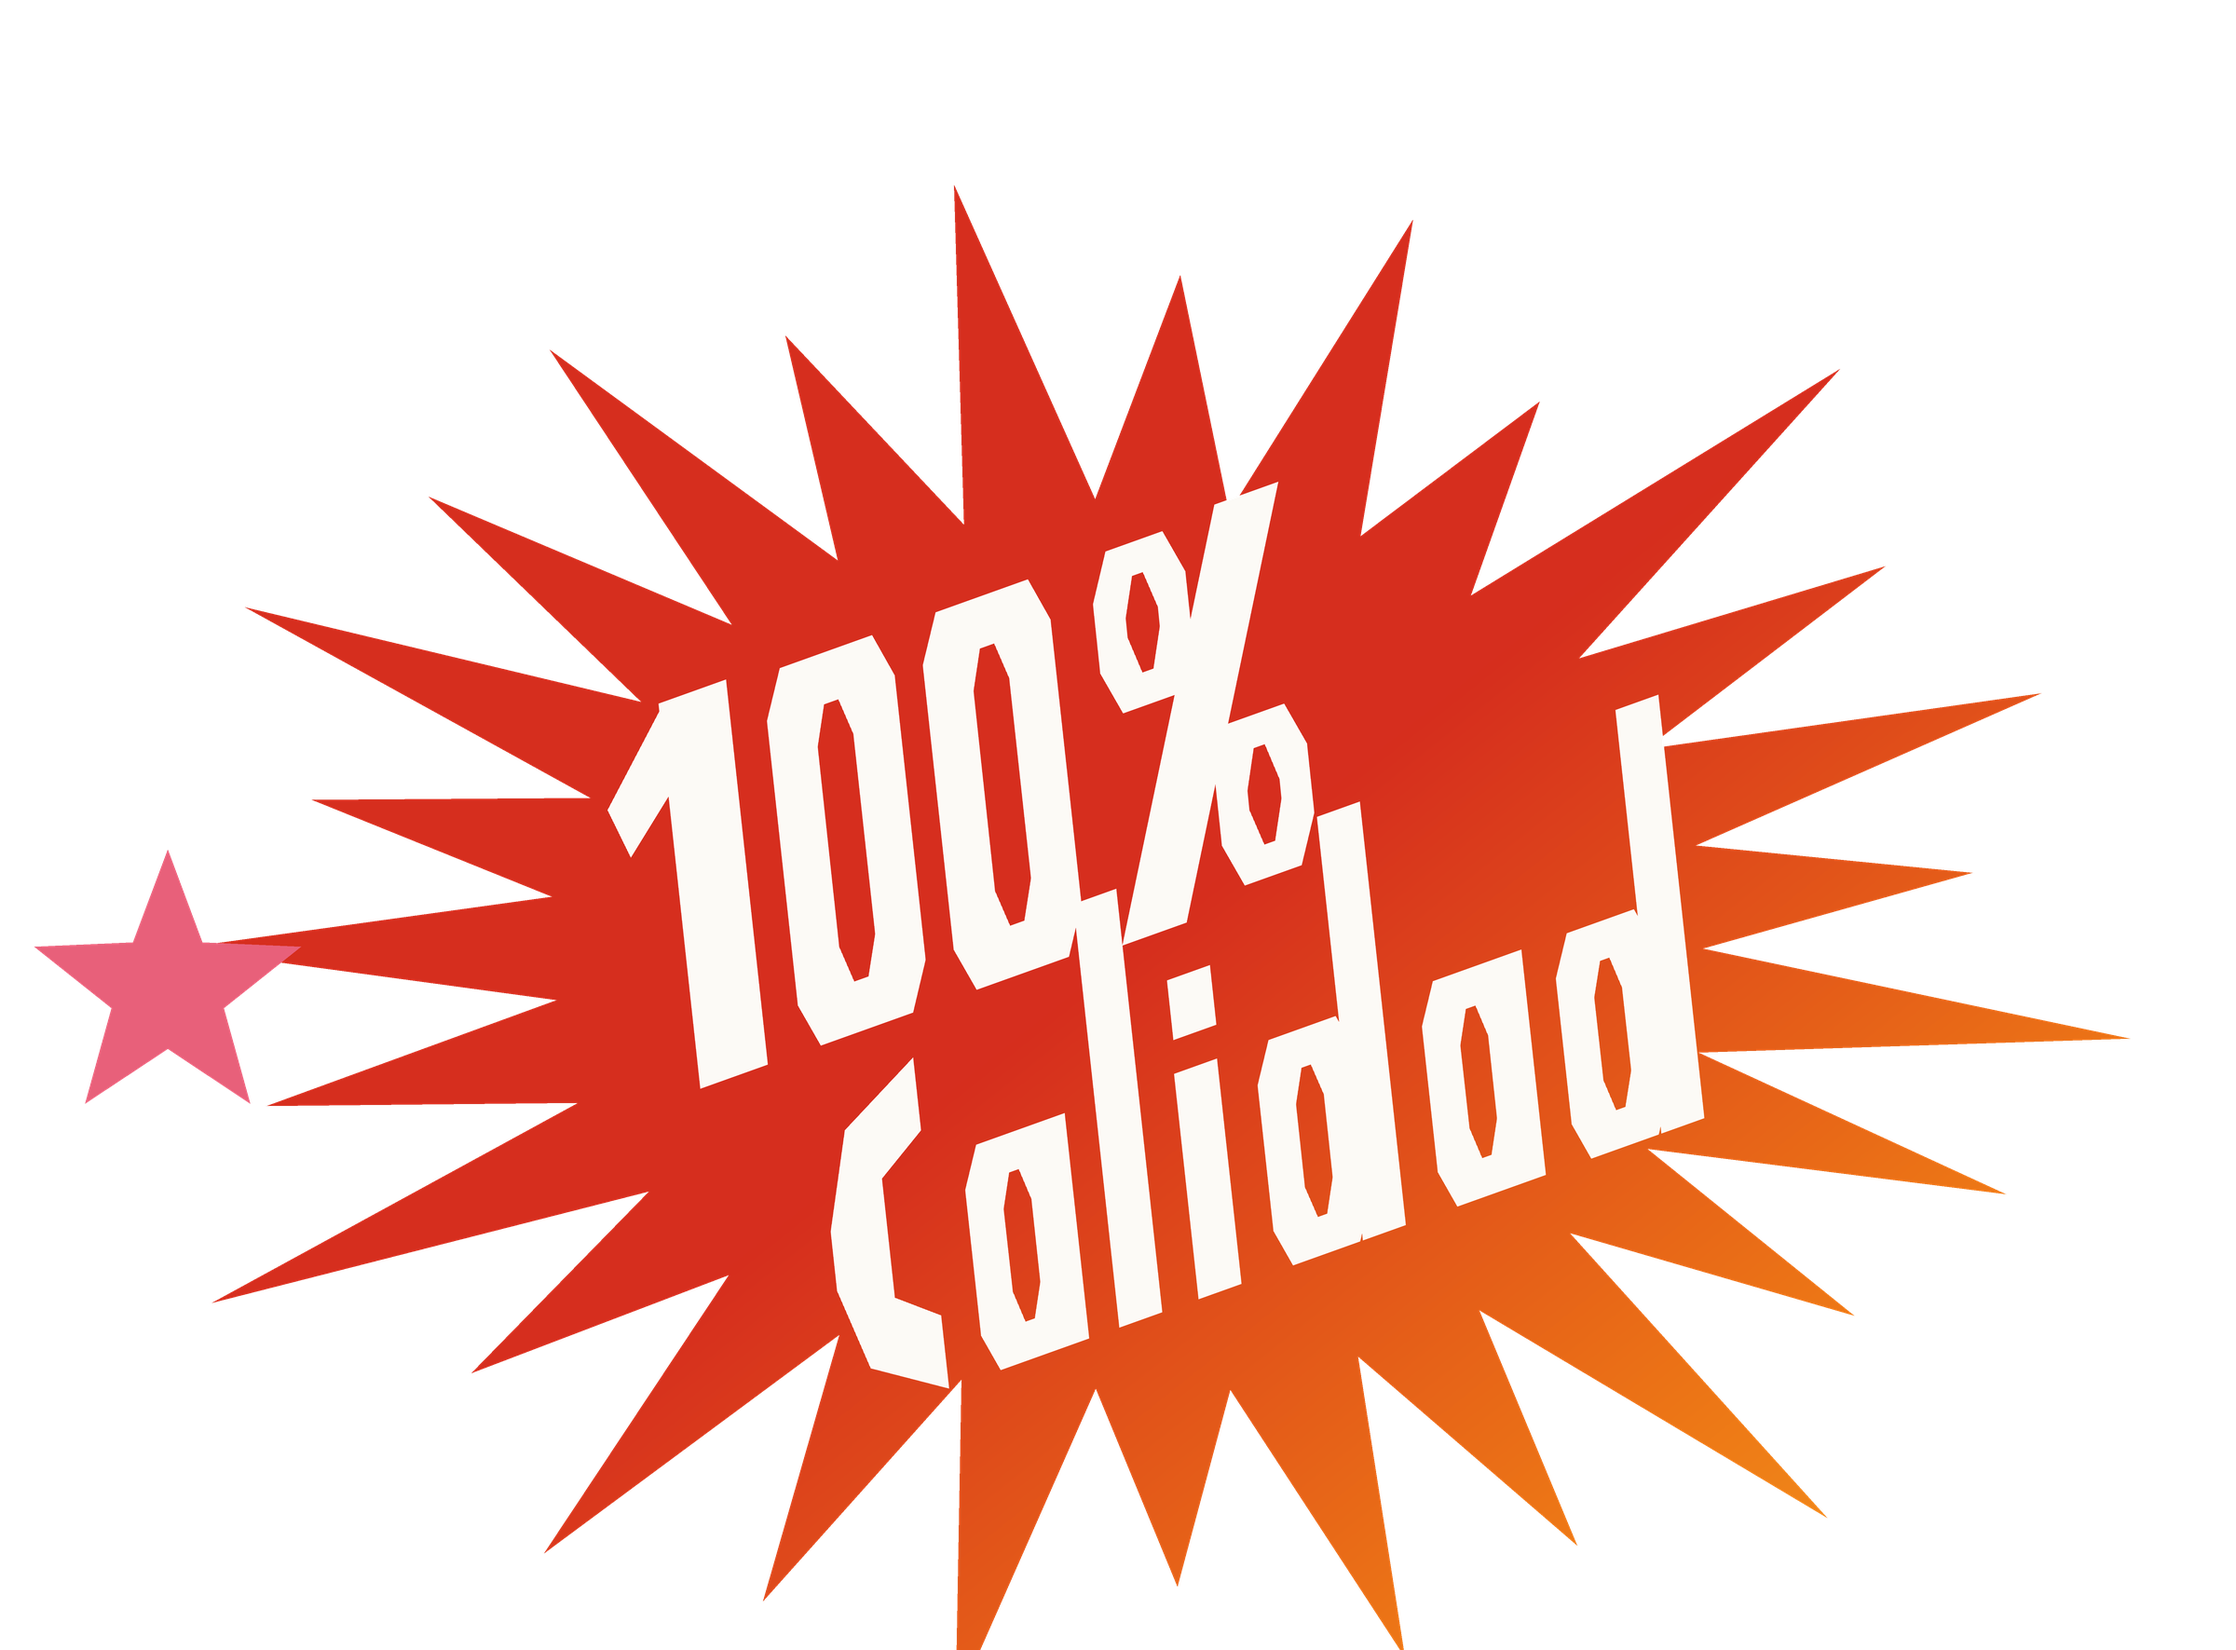
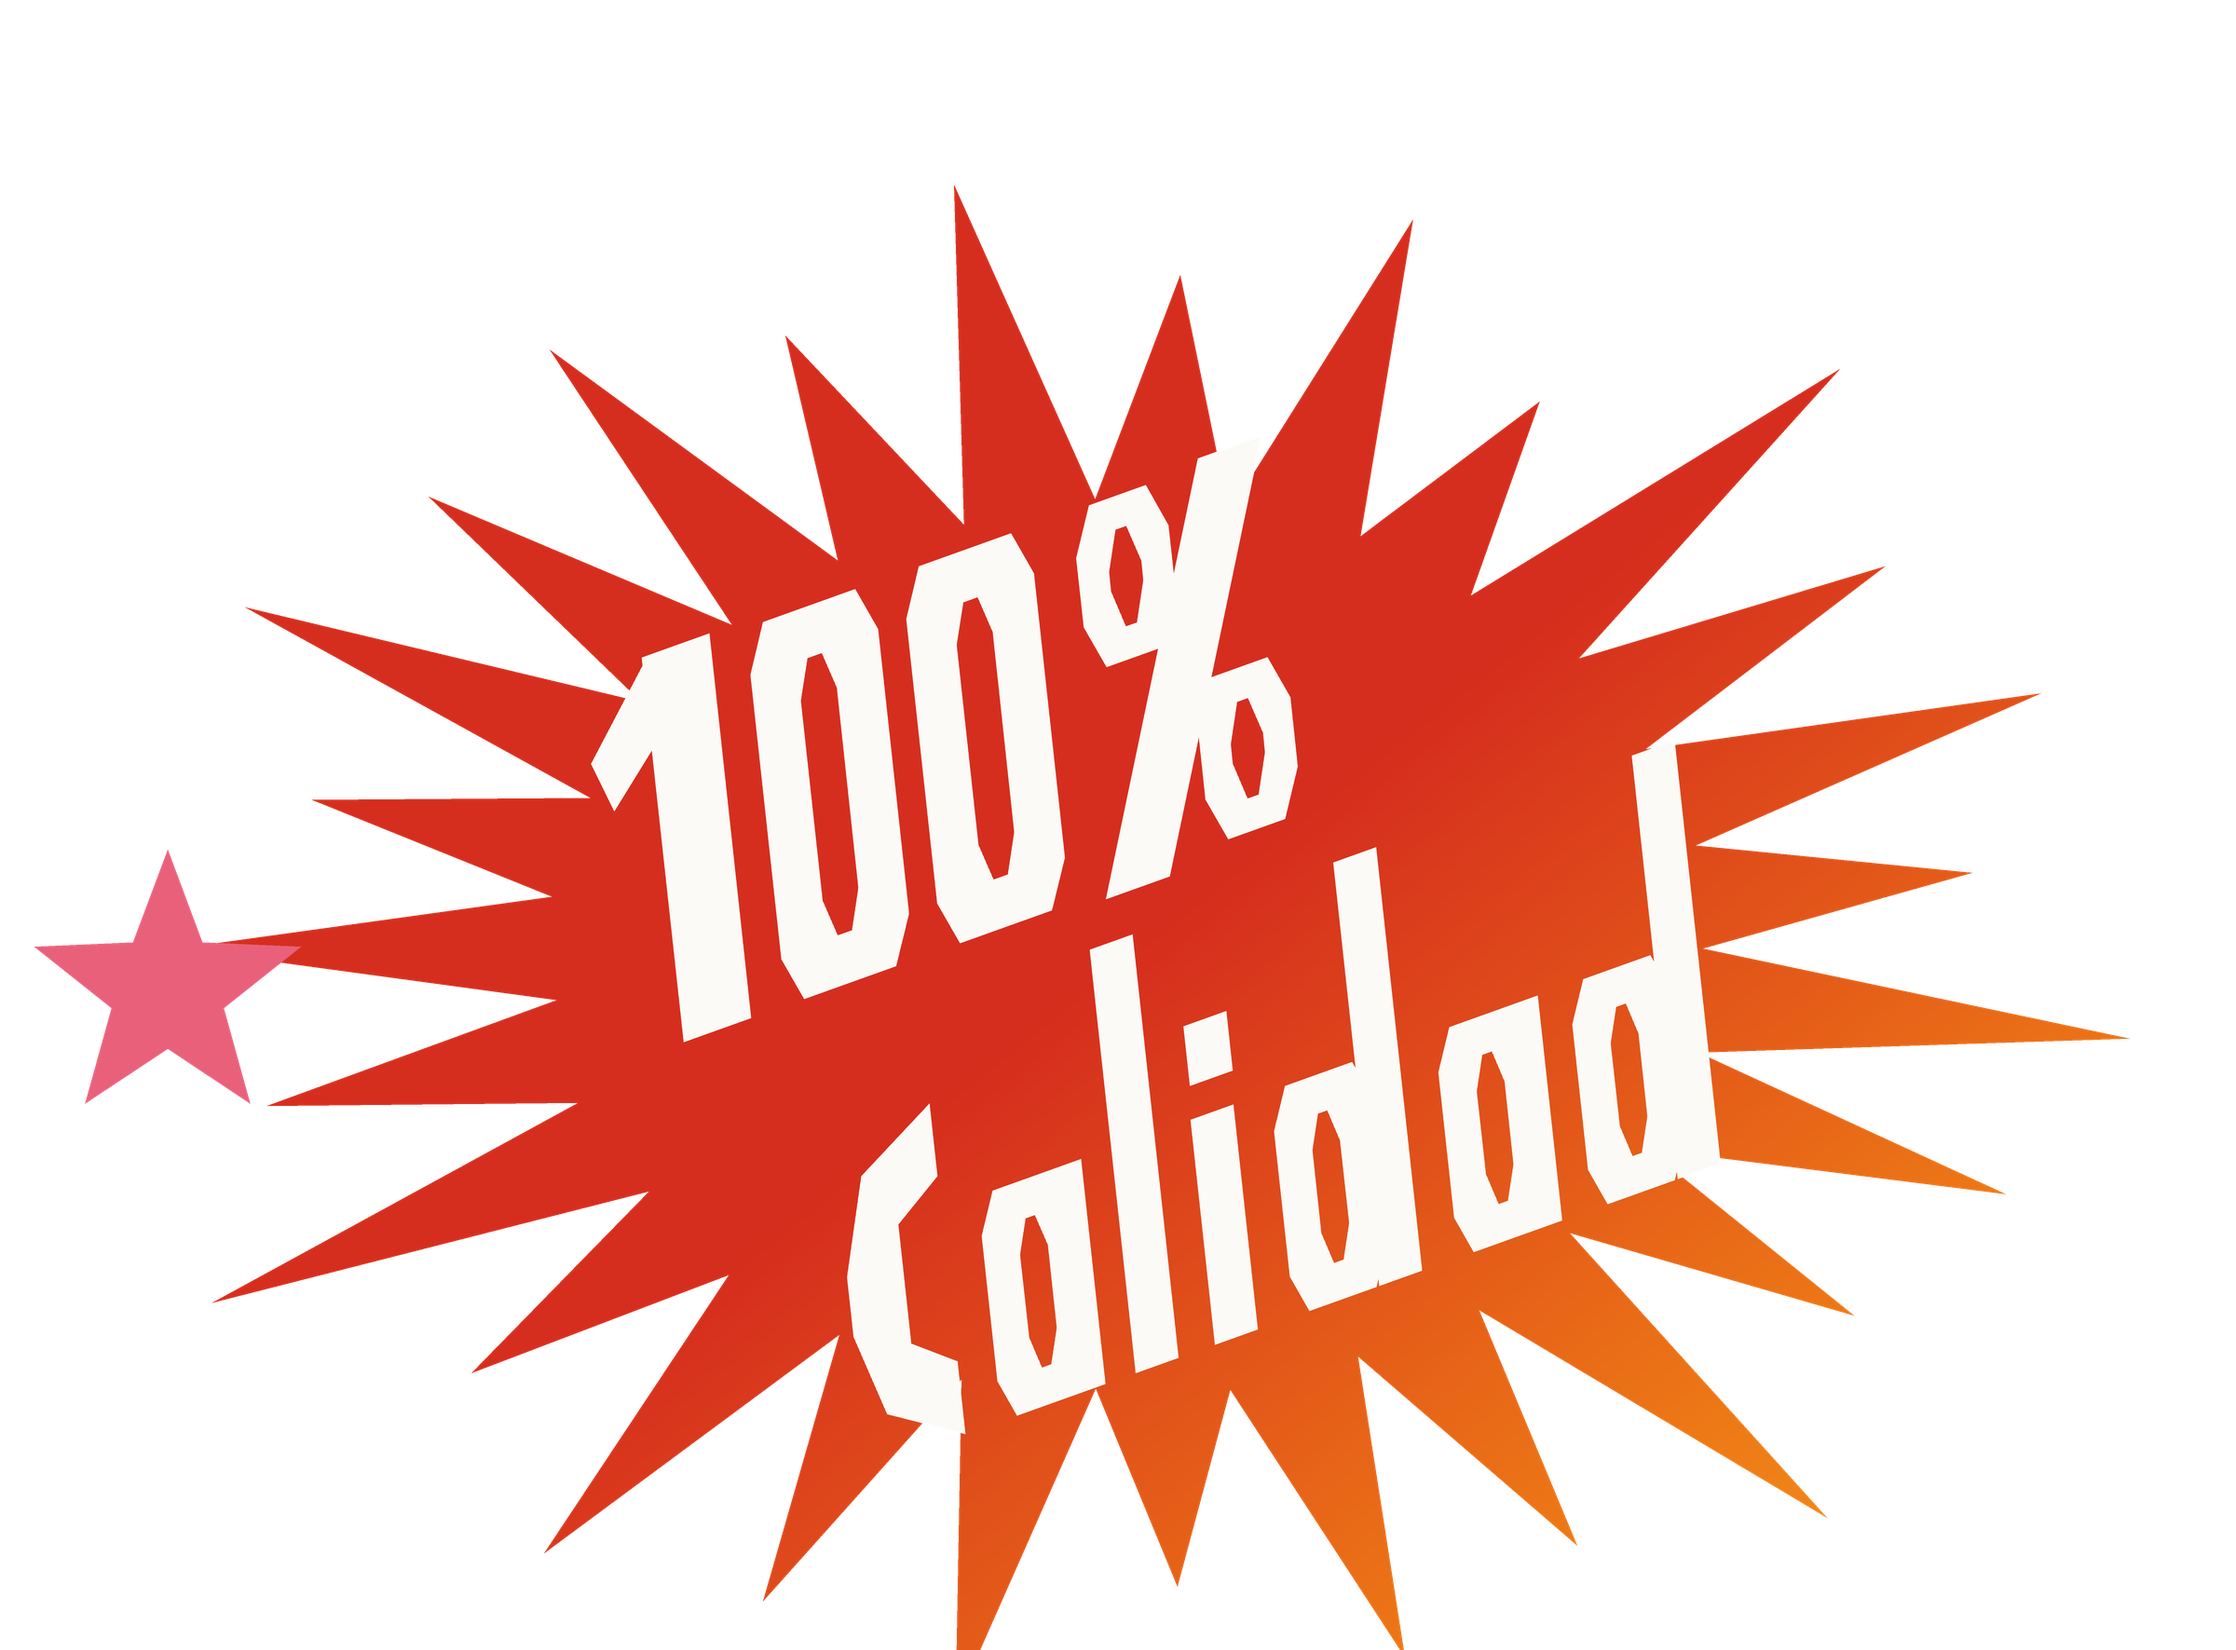
rev 47 W4: the two words no longer collide, and TYPE_SHIFT stops being a transcription
HIS REPORT, MEASURED AND NOW FIXED.  "The bottom word does not collide with the
top one either."  Rev 46 confirmed it and did not fix it: "100%" and "Calidad"
shared 1110 pixels, their boxes overlapping by 0.0337 of the canvas height --
14.5% of the "100%" cap height.  Reproduced here to four decimals before
touching anything:

    100%     x 0.3033-0.6381  y 0.3390-0.5716   \\  1110 shared px
    Calidad  x 0.3304-0.7660  y 0.5381-0.7890   /   overlap 0.0337 (14.5%)

AFTER:  0 shared pixels, a clear gap of 0.0258 of canvas height = 11.1% of the
"100%" cap height.  Guard still exact at (+0.0000, -0.0001).

THE MAGNITUDE IS NOT A MEASUREMENT AND THE SOURCE SAYS SO.  Rule 6: an ordinal
fact licenses a SIGN, never a SHAPE.  ref_playa_34.png supports only that the
words are SEPARATE -- visible at 16x, and nothing more.  A de-rotated row
profile of the type inside the burst is one broad smear with no trough between
the words: at 4-6 px per word the bright/low-saturation rule that finds the type
also finds the cream, which is the same estimator failure LEDGER_rev46 sec.1
retracted a published number for.  LINE_GAP is therefore the smallest separation
that clears the collision with a visible gap, declared a placeholder, expressed
as a fraction of the cap height rather than of the canvas so it survives a type
size change.  PHOTOS_WANTED #1 settles it.

THE TRAP THE BRIEF NAMES IS REMOVED RATHER THAN STEPPED AROUND.  sec.4 warns
[…]

Changed region(s): [[0.25, 0.2795, 0.7812, 0.8696]]

diff --git a/cal_gen.py b/cal_gen.py
@@ -91,9 +91,51 @@ ANG = math.radians(-19.7)        # measured type / bunting angle
 # layout was right.  Rotating about the point the block is centred ON makes the
 # centring EXACT and independent of ANG: a rotation fixes its own centre.
 BURST_CX, BURST_CY = 0.505, 0.575
-TYPE_PRE_CENTROID = (0.3735, 0.6309)     # watched print, rev 46, pre-rotation
-TYPE_SHIFT = (BURST_CX - TYPE_PRE_CENTROID[0],
-              BURST_CY - TYPE_PRE_CENTROID[1])      # (+0.1315, -0.0559)
+
+# ---------------------------------------------------------------- rev 47, W4
+# THE TWO WORDS COLLIDED.  "100%" and "Calidad" shared 1110 pixels and their
+# boxes overlapped by 0.0337 of the canvas height -- 14.5% of the "100%" cap
+# height.  The owner reported it; rev 46 measured it and did not fix it.
+#
+# LINE_GAP OPENS THAT GAP, AND ITS MAGNITUDE IS NOT A MEASUREMENT.  Say so
+# plainly (rule 6: an ordinal fact licenses a SIGN, never a SHAPE).  What
+# ref_playa_34.png supports is that the two words are SEPARATE -- visible at
+# 16x, and that is all.  A de-rotated row profile of the type inside the burst
+# is a single broad smear with no trough between the words: at 4-6 px per word
+# the bright/low-saturation rule that finds the type also finds the cream, the
+# same failure LEDGER_rev46 sec.1 retracted a number for.  So this constant is
+# the SMALLEST separation that clears the collision with a visible gap, and it
+# is a placeholder for a photographed value.  PHOTOS_WANTED #1 settles it.
+#
+# It is expressed as a fraction of the "100%" cap height rather than of the
+# canvas, so it survives a change of type size (SPEC 10.25 / rule 2).
+CAP_100 = 0.228                  # "100%" size, as passed to glyph_100 below
+LINE_GAP = 0.26                  # of CAP_100.  NOT MEASURED -- see above.
+LINE_SEP_BASE = 0.250            # rev 46's anchor separation, 0.645 - 0.395
+LINE_SEP = LINE_SEP_BASE + LINE_GAP * CAP_100
+
+# TYPE_SHIFT IS NOW DERIVED AT RUN TIME, NOT TRANSCRIBED.
+# rev 46 froze TYPE_PRE_CENTROID = (0.3735, 0.6309) as a watched-print figure.
+# That is correct only for rev 46's exact layout: change the gap -- which W4
+# requires -- and the frozen centroid silently becomes wrong, the block slides
+# off the burst, and the W1 guard fires.  The brief names this as the trap.
+# Measuring the centroid of the actual laid-out type removes the trap instead
+# of stepping around it, and it re-derives itself after ANY future glyph, size
+# or spacing change.  SPEC 10.25: a constant tuned against another constant
+# must be EXPRESSED in terms of it.
+def _type_centroid(shift=(0.0, 0.0)):
+    """Centroid of the two words as laid out, pre-rotation, in canvas units."""
+    t = TypeMask(w, h)
+    _place(t, shift)
+    m = np.array(t.m) > 127
+    ys, xs = np.nonzero(m)
+    return (xs.mean() / w, ys.mean() / h)
+
+
+def _place(t, shift):
+    sx, sy = shift
+    glyph_100(t, w * (0.150 + sx), h * (0.395 + sy), h * CAP_100)
+    glyph_calidad(t, w * (0.180 + sx), h * (0.395 + LINE_SEP + sy), h * 0.196)
 
 
 def rot(px, py, cx, cy, a):
@@ -313,9 +355,11 @@ def main():
     # type on its own mask so the counters punch through, then rotated as one
     # block so the two lines stay parallel at the measured -19.7 degrees
     t = TypeMask(w, h)
-    sx, sy = TYPE_SHIFT
-    glyph_100(t, w * (0.150 + sx), h * (0.395 + sy), h * 0.228)
-    glyph_calidad(t, w * (0.180 + sx), h * (0.645 + sy), h * 0.196)
+    _pre = _type_centroid()
+    TYPE_SHIFT = (BURST_CX - _pre[0], BURST_CY - _pre[1])
+    print("  type: pre-rotation centroid (%.4f, %.4f) -> TYPE_SHIFT (%+.4f, %+.4f)"
+          % (_pre + TYPE_SHIFT))
+    _place(t, TYPE_SHIFT)
     lay = Image.merge("RGBA", (
         Image.new("L", (w, h), WHITE[0]), Image.new("L", (w, h), WHITE[1]),
         Image.new("L", (w, h), WHITE[2]), t.m))
